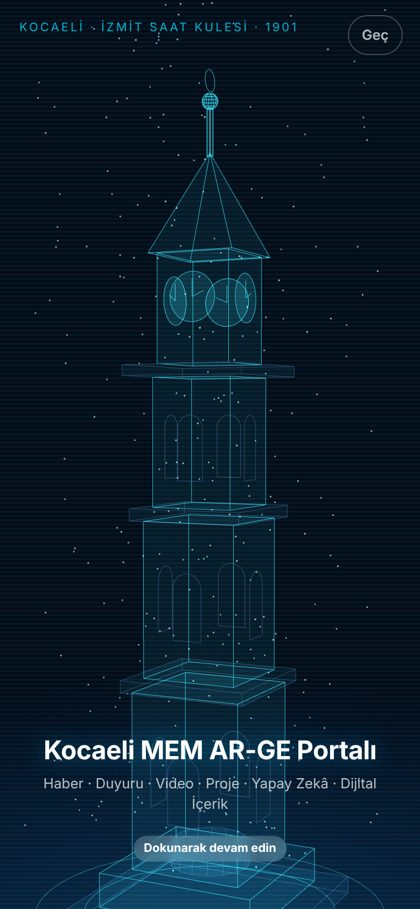
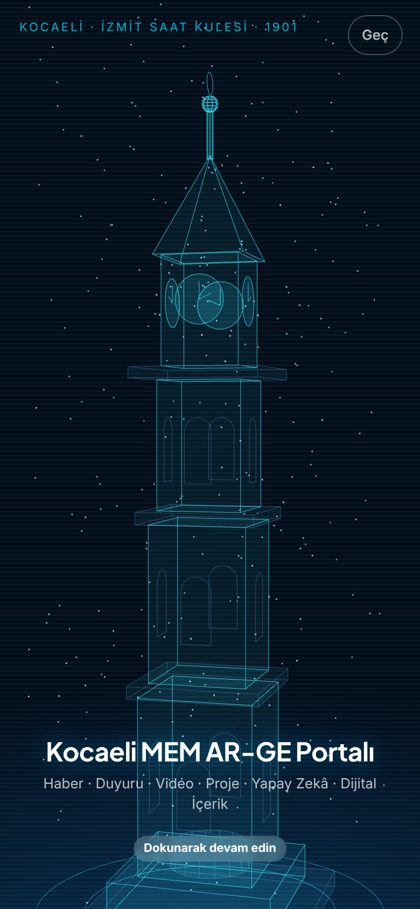
Kocaeli AR-GE Portalı 1.2: görsel yenileme
- Yeni tasarım dili: Plus Jakarta Sans başlıklar, modül başına degrade kutular,
  buzlu cam üst çubuk, yüzen sekme çubuğu, sayfa geçiş ve beğeni animasyonları
- Ana sayfa: saate göre selamlama, "bugün" özet şeridi, gerçek haber görselli manşet
- Giriş ekranı kurumsal başlık bandı; masaüstünde sunum sahnesi (telefon çerçevesi + QR)
- Haber kartı yerleşimi düzeltildi; yüklenemeyen görseller sessizce gizlenir

Claude-Session: https://claude.ai/code/session_01W6VhR75ND3NcnzXQomE63t

Changed region(s): [[0.0929, 0.0616, 0.8976, 1.0], [0.4952, 0.6469, 0.5262, 0.6777]]

diff --git a/kocaeli-arge/css/app.css b/kocaeli-arge/css/app.css
@@ -366,3 +366,140 @@ hr.sep { border: 0; border-top: 1px solid var(--border); margin: 14px 0; }
 .tts { margin-top: 6px; }
 :root[data-font="buyuk"] #device { zoom: 1.12; }
 :root[data-font="kucuk"] #device { zoom: 0.92; }
+
+/* ═══════════════════════ Görsel yenileme v1.2 ═══════════════════════ */
+:root {
+  --font-display: 'Plus Jakarta Sans', 'Inter', system-ui, sans-serif;
+  --g-red: linear-gradient(135deg, #FF4D5E 0%, #E72737 55%, #B81B29 100%);
+  --g-navy: linear-gradient(135deg, #1E4D8C 0%, #0F2A4A 100%);
+  --g-teal: linear-gradient(135deg, #2BB68B 0%, #146B52 100%);
+  --g-gold: linear-gradient(135deg, #F7C948 0%, #D98E04 100%);
+  --g-violet: linear-gradient(135deg, #8B5CF6 0%, #5B21B6 100%);
+  --g-sky: linear-gradient(135deg, #38BDF8 0%, #0369A1 100%);
+  --g-rose: linear-gradient(135deg, #FB7185 0%, #BE123C 100%);
+  --g-slate: linear-gradient(135deg, #64748B 0%, #334155 100%);
+  --radius: 20px; --radius-s: 12px;
+  --shadow: 0 1px 2px rgba(16,24,40,.04), 0 12px 32px -16px rgba(15,42,74,.22);
+}
+h1, h2, h3, .topbar .title, .topbar .brand .t1, .banner h3, .stat b, #login h1, .page-title { font-family: var(--font-display); letter-spacing: -.02em; }
+body { background: #07101E; }
+#device { background: var(--bg); }
+.card { border-radius: var(--radius); border-color: color-mix(in srgb, var(--border) 70%, transparent); }
+.card.tap { transition: transform .15s cubic-bezier(.2,.8,.2,1), box-shadow .15s; }
+.card.tap:active { transform: scale(.97); }
+.btn { border-radius: 14px; transition: transform .12s, filter .12s; }
+.btn:active { transform: scale(.96); filter: brightness(.95); }
+.btn.primary { background: var(--g-red); border: 0; box-shadow: 0 8px 20px -8px rgba(231,39,55,.6); }
+.btn.navy { background: var(--g-navy); border: 0; }
+
+/* Üst çubuk: buzlu cam */
+.topbar { background: color-mix(in srgb, var(--surface) 82%, transparent); backdrop-filter: saturate(160%) blur(14px); -webkit-backdrop-filter: saturate(160%) blur(14px); border-bottom: 1px solid color-mix(in srgb, var(--border) 60%, transparent); height: 60px; }
+.topbar .brand .logo { background: var(--g-red); box-shadow: 0 6px 16px -6px rgba(231,39,55,.6); width: 38px; height: 38px; border-radius: 12px; }
+.topbar .brand .t1 { font-size: 15px; }
+.topbar .brand .t2 { font-size: 11px; letter-spacing: .3px; text-transform: uppercase; color: var(--muted); font-weight: 600; }
+.icon-btn .dot { box-shadow: 0 0 0 2px var(--surface); }
+
+/* Sayfa geçişi */
+main#view { animation: pageIn .28s cubic-bezier(.2,.8,.2,1); }
+@keyframes pageIn { from { opacity: 0; transform: translateY(8px); } to { opacity: 1; transform: none; } }
+@media (prefers-reduced-motion: reduce) { main#view, .card.tap, .btn { animation: none; transition: none; } }
+
+/* Alt sekme çubuğu: yüzen hap */
+.tabbar { left: 12px; right: 12px; bottom: calc(10px + var(--safe-b)); height: 66px; padding: 6px; border-radius: 24px; border: 1px solid color-mix(in srgb, var(--border) 70%, transparent); background: color-mix(in srgb, var(--surface) 88%, transparent); backdrop-filter: saturate(160%) blur(16px); -webkit-backdrop-filter: saturate(160%) blur(16px); box-shadow: 0 16px 40px -16px rgba(7,16,30,.45); }
+@media (min-width: 720px) { .tabbar { position: sticky; left: auto; right: auto; bottom: 10px; margin: 0 12px; } }
+.tabbar a { border-radius: 18px; transition: background .2s, color .2s; gap: 2px; }
+.tabbar a.on { background: var(--meb-soft); color: var(--meb); }
+.tabbar a svg { transition: transform .2s; }
+.tabbar a.on svg { transform: translateY(-1px) scale(1.08); }
+main#view { padding-bottom: calc(var(--tab-h) + var(--safe-b) + 36px); }
+.chat-input { bottom: calc(var(--tab-h) + var(--safe-b) + 14px); }
+.toast { bottom: calc(var(--tab-h) + var(--safe-b) + 28px); }
+
+/* Ana sayfa: selamlama + bugün şeridi + manşet */
+.greet { display: flex; justify-content: space-between; align-items: flex-end; margin: 4px 0 14px; }
+.greet .hi { font-size: 13px; color: var(--text-2); font-weight: 600; }
+.greet .name { font-family: var(--font-display); font-size: 24px; font-weight: 800; letter-spacing: -.02em; line-height: 1.1; }
+.greet .date { text-align: right; font-size: 12px; color: var(--text-2); font-weight: 600; }
+.greet .date b { display: block; font-family: var(--font-display); font-size: 20px; color: var(--text); line-height: 1; }
+.today { display: grid; grid-template-columns: repeat(3, 1fr); gap: 10px; margin-bottom: 18px; }
+.today a { display: flex; flex-direction: column; gap: 4px; padding: 12px 12px 10px; border-radius: 16px; color: #fff; position: relative; overflow: hidden; min-height: 78px; box-shadow: var(--shadow); }
+.today a::after { content: ''; position: absolute; right: -14px; bottom: -18px; width: 64px; height: 64px; border-radius: 50%; background: rgba(255,255,255,.14); }
+.today a b { font-family: var(--font-display); font-size: 24px; line-height: 1; font-weight: 800; }
+.today a span { font-size: 11.5px; font-weight: 600; opacity: .92; }
+.today a svg { width: 18px; height: 18px; opacity: .9; }
+.manset { display: block; position: relative; border-radius: 22px; overflow: hidden; min-height: 230px; background: var(--g-navy); color: #fff; box-shadow: 0 24px 48px -24px rgba(15,42,74,.6); }
+.manset img { position: absolute; inset: 0; width: 100%; height: 100%; object-fit: cover; }
+.manset::after { content: ''; position: absolute; inset: 0; background: linear-gradient(180deg, rgba(7,16,30,.05) 20%, rgba(7,16,30,.85) 100%); }
+.manset .tx { position: absolute; left: 0; right: 0; bottom: 0; padding: 16px; z-index: 1; }
+.manset .tx h3 { margin: 6px 0 4px; font-size: 19px; line-height: 1.2; font-weight: 800; text-shadow: 0 2px 10px rgba(0,0,0,.4); display: -webkit-box; -webkit-line-clamp: 2; -webkit-box-orient: vertical; overflow: hidden; }
+.manset .tx p { margin: 0; font-size: 12.5px; opacity: .85; display: -webkit-box; -webkit-line-clamp: 2; -webkit-box-orient: vertical; overflow: hidden; }
+.manset .chip.light { backdrop-filter: blur(6px); }
+.banner { border-radius: 22px; }
+.banner::after { background: radial-gradient(500px 220px at 90% -10%, rgba(255,255,255,.22), transparent 60%), linear-gradient(0deg, rgba(0,0,0,.18), transparent 50%); }
+
+/* Hızlı erişim: modül başına degrade kutu */
+.quick { gap: 12px; }
+.quick a { border: 0; background: var(--surface); box-shadow: var(--shadow); border-radius: 18px; padding: 12px 4px 11px; gap: 7px; font-size: 11.5px; }
+.quick a .ic { width: 44px; height: 44px; border-radius: 14px; color: #fff; background: var(--g-slate); box-shadow: 0 8px 16px -8px rgba(7,16,30,.5); }
+.quick a .ic svg { width: 22px; height: 22px; }
+.quick a[data-c="red"] .ic { background: var(--g-red); } .quick a[data-c="navy"] .ic { background: var(--g-navy); } .quick a[data-c="teal"] .ic { background: var(--g-teal); }
+.quick a[data-c="gold"] .ic { background: var(--g-gold); } .quick a[data-c="violet"] .ic { background: var(--g-violet); } .quick a[data-c="sky"] .ic { background: var(--g-sky); } .quick a[data-c="rose"] .ic { background: var(--g-rose); }
+.row .ic { border-radius: 13px; }
+.row[data-c="red"] .ic { background: var(--g-red); color: #fff; } .row[data-c="navy"] .ic { background: var(--g-navy); color: #fff; } .row[data-c="teal"] .ic { background: var(--g-teal); color: #fff; }
+.row[data-c="gold"] .ic { background: var(--g-gold); color: #fff; } .row[data-c="violet"] .ic { background: var(--g-violet); color: #fff; } .row[data-c="sky"] .ic { background: var(--g-sky); color: #fff; } .row[data-c="rose"] .ic { background: var(--g-rose); color: #fff; } .row[data-c="slate"] .ic { background: var(--g-slate); color: #fff; }
+
+/* Haber kartları */
+.news .img { border-radius: 12px; width: 104px; height: 84px; }
+.news { grid-template-columns: 104px 1fr; }
+.news.big .img { height: 190px; }
+.news.big .body { padding: 12px 14px 14px; }
+.news .meta .chip { padding: 2px 8px; }
+.section-head h2 { font-size: 17px; }
+.section-head a { display: inline-flex; align-items: center; gap: 2px; }
+
+/* Sosyal: kalp animasyonu */
+.social button.like.on svg { animation: pop .35s cubic-bezier(.2,.8,.2,1); }
+@keyframes pop { 0% { transform: scale(.6); } 60% { transform: scale(1.3); } 100% { transform: scale(1); } }
+.story .ring { box-shadow: 0 6px 14px -8px rgba(7,16,30,.5); }
+
+/* Giriş ekranı */
+#login { background: radial-gradient(900px 500px at 50% -10%, #1E4D8C 0%, var(--bg) 55%); }
+#login .hero { padding-top: 36px; }
+#login .hero .logo { width: 84px; height: 84px; border-radius: 26px; background: var(--g-red); font-size: 17px; box-shadow: 0 20px 40px -14px rgba(231,39,55,.7); }
+#login .kurum { font-size: 11.5px; letter-spacing: 1.5px; text-transform: uppercase; color: #fff; opacity: .85; font-weight: 700; margin-bottom: 14px; }
+#login h1 { color: #fff; font-size: 24px; }
+#login .hero p { color: rgba(255,255,255,.78); }
+:root[data-theme="dark"] #login h1, :root[data-theme="dark"] #login .hero p { color: var(--text); }
+@media (prefers-color-scheme: dark) { :root:not([data-theme="light"]) #login h1 { color: var(--text); } }
+.login-btn { border-radius: 16px; }
+.login-btn .lg { border-radius: 12px; }
+
+/* Masaüstü sunum sahnesi */
+#stage { display: none; }
+@media (min-width: 1000px) {
+  body { display: grid; grid-template-columns: 430px minmax(360px, 520px); justify-content: center; align-items: center; gap: 56px; padding: 24px 32px; background: radial-gradient(1200px 700px at 30% -10%, #1E4D8C 0%, #07101E 60%); }
+  #device { margin: 0; }
+  #stage { display: block; color: #fff; }
+  #stage .k { font-size: 12px; letter-spacing: 2px; text-transform: uppercase; color: rgba(0,220,255,.85); font-weight: 700; margin-bottom: 14px; }
+  #stage h1 { font-size: 40px; line-height: 1.05; margin: 0 0 14px; font-weight: 800; }
+  #stage p { font-size: 16px; color: rgba(255,255,255,.75); margin: 0 0 22px; max-width: 460px; }
+  #stage .feat { display: flex; flex-wrap: wrap; gap: 8px; margin-bottom: 26px; }
+  #stage .feat span { padding: 7px 12px; border-radius: 999px; background: rgba(255,255,255,.1); border: 1px solid rgba(255,255,255,.14); font-size: 12.5px; font-weight: 600; }
+  #stage .qrbox { display: flex; gap: 16px; align-items: center; background: #fff; color: #16213A; border-radius: 20px; padding: 14px 16px; width: max-content; box-shadow: 0 30px 60px -24px rgba(0,0,0,.7); }
+  #stage .qrbox b { display: block; font-size: 14px; } #stage .qrbox small { color: #5A6479; font-size: 12px; }
+  #stage .qrbox img { width: 112px; height: 112px; border-radius: 10px; }
+  #login { position: absolute; }
+  #login .wrap { min-height: 100%; }
+}
+/* v1.2 düzeltmeleri */
+#login { background: var(--bg); }
+#login .hero { background: var(--g-navy); color: #fff; margin: -24px -22px 20px; padding: calc(36px + env(safe-area-inset-top, 0px)) 22px 30px; border-radius: 0 0 34px 34px; box-shadow: 0 24px 48px -28px rgba(15,42,74,.8); position: relative; overflow: hidden; }
+#login .hero::after { content: ''; position: absolute; right: -60px; top: -60px; width: 220px; height: 220px; border-radius: 50%; background: radial-gradient(circle, rgba(255,255,255,.18), transparent 70%); }
+#login h1, :root[data-theme="dark"] #login h1 { color: #fff; }
+#login .hero p, :root[data-theme="dark"] #login .hero p { color: rgba(255,255,255,.82); }
+#login .hero .logo { background: #fff; color: var(--meb); box-shadow: 0 20px 40px -14px rgba(0,0,0,.5); }
+.section-head a { white-space: nowrap; flex: none; margin-left: 12px; }
+img.broken { visibility: hidden; }
+.manset img.broken { display: none; }
+a.card.news { display: grid; }
+a.card.news.big { display: block; }

diff --git a/kocaeli-arge/js/views/home.js b/kocaeli-arge/js/views/home.js
@@ -1,5 +1,5 @@
 // Ana sayfa, haberler, duyurular, bildirimler, favoriler, arama
-import { icons, h, raw, el, esc, fmtDate, fmtRel, kalanGun, toast, skeletons, empty, share } from '../ui.js';
+import { icons, h, raw, el, esc, fmtDate, fmtRel, kalanGun, ymd, toast, skeletons, empty, share } from '../ui.js';
 import { store, bildirim, social } from '../backend.js';
 import { feeds } from '../feeds.js';
 import { newsCard, videoCard, socialBar, commentsSection } from '../components.js';
@@ -33,28 +33,40 @@ export async function home(ctx) {
   const c = store.content;
   const gunun = (c.duyurular || []).find(d => d.id === c.gununDuyurusu) || (c.duyurular || [])[0];
   const u = store.user;
+  const now = new Date(), hr = now.getHours();
+  const selam = hr < 6 ? 'Hayırlı geceler' : hr < 12 ? 'Hayırlı sabahlar' : hr < 18 ? 'Hayırlı günler' : 'Hayırlı akşamlar';
+  const bugun = (c.etkinlikler || []).filter(e => e.tarih.slice(0, 10) === ymd(now)).length;
+  const yakin = (c.duyurular || []).filter(d => d.sonTarih && kalanGun(d.sonTarih) >= 0 && kalanGun(d.sonTarih) <= 14).length;
+  const okunmamis = bildirim.unread();
+  const adSoyad = u?.ad || 'Değerli Öğretmenimiz';
   ctx.root.innerHTML = `
-    <section class="section">
-      <div style="display:flex;justify-content:space-between;align-items:center;margin-bottom:10px">
-        <div><div style="font-size:12.5px;color:var(--text-2)">Hoş geldiniz${u ? ',' : ''}</div><div style="font-size:19px;font-weight:800;letter-spacing:-.3px">${esc(u?.ad || 'Değerli Öğretmenimiz')}</div></div>
-        <span class="chip navy">${fmtDate(new Date())}</span>
-      </div>
-      <div class="banner-wrap" id="banners">${(c.bannerlar || []).map(b => h`<a class="banner" href="${b.rota}" style="background:${b.renk}"><span class="chip light">Duyuru</span><h3>${b.baslik}</h3><p>${b.alt}</p></a>`).join('')}</div>
-      <div class="dots">${(c.bannerlar || []).map((_, i) => `<i class="${i === 0 ? 'on' : ''}"></i>`).join('')}</div>
-    </section>
-    ${gunun ? h`<section class="section"><div class="section-head"><h2>Günün duyurusu</h2><a href="#/duyurular">Tümü</a></div>
-      <a class="card ann tap ${gunun.onemli ? 'onemli' : ''} ${gunun.acil ? 'acil' : ''}" href="#/duyurular/${gunun.id}"><div class="tags">${gunun.resmi ? raw('<span class="chip navy">Resmî</span>') : ''}${gunun.onemli ? raw('<span class="chip meb">Önemli</span>') : ''}${gunun.acil ? raw('<span class="chip meb">Acil</span>') : ''}</div><h3>${gunun.baslik}</h3><p>${gunun.ozet}</p>${gunun.sonTarih ? raw(deadlineHtml(gunun.sonTarih)) : ''}</a></section>` : ''}
+    <div class="greet"><div><div class="hi">${selam},</div><div class="name">${esc(adSoyad.split(' ').slice(0, 2).join(' '))}</div></div>
+      <div class="date"><b>${now.getDate()}</b>${fmtDate(now).split(' ').slice(1).join(' ')}<br>${['Pazar', 'Pazartesi', 'Salı', 'Çarşamba', 'Perşembe', 'Cuma', 'Cumartesi'][now.getDay()]}</div></div>
+    <div class="today">
+      <a href="#/takvim" style="background:var(--g-teal)">${icons.calendar}<b>${bugun}</b><span>Bugünkü etkinlik</span></a>
+      <a href="#/duyurular" style="background:var(--g-gold)">${icons.clock}<b>${yakin}</b><span>Yaklaşan son tarih</span></a>
+      <a href="#/bildirimler" style="background:var(--g-navy)">${icons.bell}<b>${okunmamis}</b><span>Yeni bildirim</span></a>
+    </div>
     <div id="live-slot"></div>
+    <section class="section"><div class="section-head"><h2>Manşet</h2><a href="#/haberler">Tüm haberler ${icons.chevron}</a></div><div id="manset"><div class="manset skeleton" style="box-shadow:none"></div></div></section>
     <section class="section"><div class="section-head"><h2>Hızlı erişim</h2></div>
-      <div class="quick">${(c.hizliErisim || []).map(q => h`<a href="${q.rota}"><span class="ic">${raw(icons[q.ikon] || icons.grid)}</span>${q.ad}</a>`).join('')}</div></section>
-    <section class="section"><div class="section-head"><h2>Son haberler</h2><a href="#/haberler">Tümü</a></div><div class="card-list" id="home-news">${skeletons(3)}</div></section>
-    <section class="section"><div class="section-head"><h2>Kocaeli MEM TV</h2><a href="#/tv">Tümü</a></div><div class="card-list" id="home-video"><div class="card video"><div class="thumb skeleton"></div></div></div></section>
-    <section class="section"><div class="section-head"><h2>Yaklaşan etkinlikler</h2><a href="#/takvim">Takvim</a></div><div class="card">${upcoming(c).map(e => h`<a class="event tap" href="#/takvim?g=${e.tarih.slice(0, 10)}"><div class="when"><b>${new Date(e.tarih).getDate()}</b><span>${fmtDate(e.tarih).split(' ')[1].slice(0, 3)}</span><small>${e.tarih.slice(11, 16)}</small></div><div><h3>${e.baslik}</h3><p>${e.yer} · ${e.tur}</p></div></a>`).join('') || empty('Yaklaşan etkinlik yok', 'calendar')}</div></section>`;
-  // banner dots
+      <div class="quick">${(c.hizliErisim || []).map(q => h`<a href="${q.rota}" data-c="${q.renk || 'slate'}"><span class="ic">${raw(icons[q.ikon] || icons.grid)}</span>${q.ad}</a>`).join('')}</div></section>
+    <section class="section"><div class="section-head"><h2>Öne çıkanlar</h2></div>
+      <div class="banner-wrap" id="banners">${(c.bannerlar || []).map(b => h`<a class="banner" href="${b.rota}" style="background:${b.renk}"><span class="chip light">Duyuru</span><h3>${b.baslik}</h3><p>${b.alt}</p></a>`).join('')}</div>
+      <div class="dots">${(c.bannerlar || []).map((_, i) => `<i class="${i === 0 ? 'on' : ''}"></i>`).join('')}</div></section>
+    ${gunun ? h`<section class="section"><div class="section-head"><h2>Günün duyurusu</h2><a href="#/duyurular">Tümü ${raw(icons.chevron)}</a></div>
+      <a class="card ann tap ${gunun.onemli ? 'onemli' : ''} ${gunun.acil ? 'acil' : ''}" href="#/duyurular/${gunun.id}"><div class="tags">${gunun.resmi ? raw('<span class="chip navy">Resmî</span>') : ''}${gunun.onemli ? raw('<span class="chip meb">Önemli</span>') : ''}${gunun.acil ? raw('<span class="chip meb">Acil</span>') : ''}</div><h3>${gunun.baslik}</h3><p>${gunun.ozet}</p>${gunun.sonTarih ? raw(deadlineHtml(gunun.sonTarih)) : ''}</a></section>` : ''}
+    <section class="section"><div class="section-head"><h2>Son haberler</h2><a href="#/haberler">Tümü ${icons.chevron}</a></div><div class="card-list" id="home-news">${skeletons(3)}</div></section>
+    <section class="section"><div class="section-head"><h2>Kocaeli MEM TV</h2><a href="#/tv">Tümü ${icons.chevron}</a></div><div class="card-list" id="home-video"><div class="card video"><div class="thumb skeleton"></div></div></div></section>
+    <section class="section"><div class="section-head"><h2>Yaklaşan etkinlikler</h2><a href="#/takvim">Takvim ${icons.chevron}</a></div><div class="card">${upcoming(c).map(e => h`<a class="event tap" href="#/takvim?g=${e.tarih.slice(0, 10)}"><div class="when"><b>${new Date(e.tarih).getDate()}</b><span>${fmtDate(e.tarih).split(' ')[1].slice(0, 3)}</span><small>${e.tarih.slice(11, 16)}</small></div><div><h3>${e.baslik}</h3><p>${e.yer} · ${e.tur}</p></div></a>`).join('') || empty('Yaklaşan etkinlik yok', 'calendar')}</div></section>`;
   const bw = ctx.root.querySelector('#banners'), dots = ctx.root.querySelectorAll('.dots i');
   bw?.addEventListener('scroll', () => { const i = Math.round(bw.scrollLeft / (bw.firstElementChild?.offsetWidth + 12 || 1)); dots.forEach((d, k) => d.classList.toggle('on', k === i)); }, { passive: true });
   let auto = setInterval(() => { if (!document.contains(bw)) return clearInterval(auto); const w = (bw.firstElementChild?.offsetWidth || 0) + 12; const next = (Math.round(bw.scrollLeft / w) + 1) % (c.bannerlar?.length || 1); bw.scrollTo({ left: next * w, behavior: 'smooth' }); }, 5000);
-  allNews(c).then(items => { const n = ctx.root.querySelector('#home-news'); if (n) n.innerHTML = items.length ? items.slice(0, 1).map(i => newsCard(i, { big: true })).join('') + items.slice(1, 5).map(i => newsCard(i)).join('') : empty('Haber yüklenemedi'); });
+  allNews(c).then(items => {
+    const m = ctx.root.querySelector('#manset'); const hero = items.find(i => i.image) || items[0];
+    if (m) m.innerHTML = hero ? h`<a class="manset tap" href="#/haberler/${encodeURIComponent(hero.id)}">${hero.image ? raw(`<img src="${esc(hero.image)}" alt="" referrerpolicy="no-referrer">`) : ''}<div class="tx"><span class="chip light">${hero.kaynak}${hero.date ? ' · ' + fmtRel(hero.date) : ''}</span><h3>${hero.title}</h3><p>${hero.summary || ''}</p></div></a>` : '';
+    const n = ctx.root.querySelector('#home-news'); if (n) n.innerHTML = items.length ? items.filter(i => i !== hero).slice(0, 5).map(i => newsCard(i)).join('') : empty('Haber yüklenemedi');
+  });
   feeds.live(YT_CHANNELS.map(k => k.id)).then(d => { const l = (d.items || []).find(x => x.live); const slot = ctx.root.querySelector('#live-slot'); if (!l || !slot) return; const ch = YT_CHANNELS.find(k => k.id === l.channelId); slot.innerHTML = `<a class="card live-card tap" href="#/tv/${esc(l.videoId)}" style="margin-bottom:22px"><span class="live-badge"><i></i>CANLI</span><b>${esc(ch?.ad || '')}</b><span>${esc(l.title || 'Canlı yayın sürüyor')}</span>${icons.chevron}</a>`; }).catch(() => {});
   feeds.channel(YT_CHANNELS[0].id).then(d => { const n = ctx.root.querySelector('#home-video'); if (n) n.innerHTML = (d.items || []).slice(0, 2).map(videoCard).join(''); }).catch(() => { const n = ctx.root.querySelector('#home-video'); if (n) n.innerHTML = empty('Video yüklenemedi', 'play'); });
 }

diff --git a/kocaeli-arge/js/views/misc.js b/kocaeli-arge/js/views/misc.js
@@ -203,13 +203,13 @@ export async function hakkinda(ctx) {
 export async function menu(ctx) {
   ctx.title('Tüm Modüller');
   const items = [
-    ['Akış', 'feed', '#/akis', 'Paylaşımlar, haber ve videolar tek akışta'], ['Ara', 'search', '#/ara', 'Tüm içerikte arama'],
-    ['Haberler', 'news', '#/haberler', 'Kocaeli MEM, AR-GE ve MEB haberleri'], ['Duyurular', 'megaphone', '#/duyurular', 'Resmî ve acil duyurular, son tarihler'], ['Bildirimler', 'bell', '#/bildirimler', 'Bildirim merkezi'],
-    ['Kocaeli MEM TV', 'play', '#/tv', 'YouTube, canlı yayın, oynatma listeleri'], ['AR-GE Çalışmaları', 'flask', '#/arge', 'Projeler, başvuru, sonuç raporları'], ['eTwinning Merkezi', 'globe', '#/etwinning', 'Çağrılar, örnekler, kılavuzlar'],
-    ['TÜBİTAK Merkezi', 'atom', '#/tubitak', '4004 · 4005 · 4006 · 2204'], ['Öğretmen Akademileri', 'graduation', '#/akademiler', 'Takvim, videolar, başvuru'], ['Dijital Kütüphane', 'book', '#/kutuphane', 'PDF, kılavuz, MEB yayınları, e-kitap'],
-    ['Etkinlik Takvimi', 'calendar', '#/takvim', 'Günlük, haftalık, aylık'], ['İlçe AR-GE Birimleri', 'building', '#/ilceler', '12 ilçe, iletişim ve faaliyetler'], ['Anket Sistemi', 'chart', '#/anketler', 'Online anket ve sonuçlar'],
-    ['Yapay Zekâ Asistanı', 'sparkles', '#/asistan', 'Proje, yazı ve etkinlik desteği'], ['Doküman Merkezi', 'file', '#/dokumanlar', 'Formlar ve dilekçe örnekleri'], ['Kurumsal İletişim', 'phone', '#/iletisim', 'Telefon, e-posta, harita'],
-    ['Hesabım', 'user', '#/hesap', 'Profil, favoriler, bildirim, tema'],
+    ['Akış', 'feed', '#/akis', 'Paylaşımlar, haber ve videolar tek akışta', 'rose'], ['Ara', 'search', '#/ara', 'Tüm içerikte arama', 'slate'],
+    ['Haberler', 'news', '#/haberler', 'Kocaeli MEM, AR-GE ve MEB haberleri', 'red'], ['Duyurular', 'megaphone', '#/duyurular', 'Resmî ve acil duyurular, son tarihler', 'navy'], ['Bildirimler', 'bell', '#/bildirimler', 'Bildirim merkezi', 'gold'],
+    ['Kocaeli MEM TV', 'play', '#/tv', 'YouTube, canlı yayın, oynatma listeleri', 'red'], ['AR-GE Çalışmaları', 'flask', '#/arge', 'Projeler, başvuru, sonuç raporları', 'teal'], ['eTwinning Merkezi', 'globe', '#/etwinning', 'Çağrılar, örnekler, kılavuzlar', 'sky'],
+    ['TÜBİTAK Merkezi', 'atom', '#/tubitak', '4004 · 4005 · 4006 · 2204', 'violet'], ['Öğretmen Akademileri', 'graduation', '#/akademiler', 'Takvim, videolar, başvuru', 'navy'], ['Dijital Kütüphane', 'book', '#/kutuphane', 'PDF, kılavuz, MEB yayınları, e-kitap', 'gold'],
+    ['Etkinlik Takvimi', 'calendar', '#/takvim', 'Günlük, haftalık, aylık', 'teal'], ['İlçe AR-GE Birimleri', 'building', '#/ilceler', '12 ilçe, iletişim ve faaliyetler', 'sky'], ['Anket Sistemi', 'chart', '#/anketler', 'Online anket ve sonuçlar', 'violet'],
+    ['Yapay Zekâ Asistanı', 'sparkles', '#/asistan', 'Proje, yazı ve etkinlik desteği', 'rose'], ['Doküman Merkezi', 'file', '#/dokumanlar', 'Formlar ve dilekçe örnekleri', 'slate'], ['Kurumsal İletişim', 'phone', '#/iletisim', 'Telefon, e-posta, harita', 'navy'],
+    ['Hesabım', 'user', '#/hesap', 'Profil, favoriler, bildirim, tema', 'slate'],
   ];
-  ctx.root.innerHTML = `<div class="card">${items.map(([t, i, href, s]) => listRow({ icon: i, title: t, sub: s, href })).join('')}${store.isAdmin ? listRow({ icon: 'settings', title: 'Yönetici Paneli', sub: 'İçerik ve bildirim yönetimi', href: '/kocaeli-arge/yonetim/' }) : ''}</div>`;
+  ctx.root.innerHTML = `<div class="card">${items.map(([t, i, href, s, c]) => listRow({ icon: i, title: t, sub: s, href, c })).join('')}${store.isAdmin ? listRow({ icon: 'settings', title: 'Yönetici Paneli', sub: 'İçerik ve bildirim yönetimi', href: '/kocaeli-arge/yonetim/', c: 'red' }) : ''}</div>`;
 }

diff --git a/kocaeli-arge/index.html b/kocaeli-arge/index.html
@@ -15,7 +15,7 @@
 <link rel="icon" type="image/png" sizes="192x192" href="/kocaeli-arge/assets/icon-192.png">
 <link rel="apple-touch-icon" href="/kocaeli-arge/assets/apple-touch-icon.png">
 <link rel="preconnect" href="https://fonts.googleapis.com"><link rel="preconnect" href="https://fonts.gstatic.com" crossorigin>
-<link href="https://fonts.googleapis.com/css2?family=Inter:wght@400;500;600;700;800;900&display=swap" rel="stylesheet">
+<link href="https://fonts.googleapis.com/css2?family=Inter:wght@400;500;600;700;800;900&family=Plus+Jakarta+Sans:wght@600;700;800&display=swap" rel="stylesheet">
 <link rel="stylesheet" href="/kocaeli-arge/css/app.css">
 <script>try{var t=localStorage.getItem('arge.theme');if(t==='dark'||t==='light')document.documentElement.dataset.theme=t;var f=localStorage.getItem('arge.font');if(f&&f!=='normal')document.documentElement.dataset.font=f;}catch(e){}</script>
 </head>
@@ -27,6 +27,15 @@
   <div class="intro-text"><h1>Kocaeli MEM AR-GE Portalı</h1><p>Haber · Duyuru · Video · Proje · Yapay Zekâ · Dijital İçerik</p><span class="chip light">Dokunarak devam edin</span></div>
 </div>
 <div id="device"><div class="screen"><div class="empty" style="padding-top:40vh">Yükleniyor…</div></div></div>
+<aside id="stage" aria-label="Tanıtım">
+  <div class="k">Kocaeli İl Millî Eğitim Müdürlüğü · AR-GE Birimi</div>
+  <h1>Haber, duyuru, video ve projeler<br>tek uygulamada.</h1>
+  <p>Öğretmenlerimiz için Kocaeli MEM, MEB ve EBA kaynaklarını, Öğretmen Akademileri'ni, TÜBİTAK ve eTwinning çağrılarını, etkinlik takvimini ve yapay zekâ asistanını bir araya getiren mobil portal.</p>
+  <div class="feat"><span>Anlık haber</span><span>Kocaeli MEM TV</span><span>Canlı yayın</span><span>Sosyal akış</span><span>Push bildirim</span><span>Etkinlik takvimi</span><span>Yapay zekâ asistanı</span><span>Çevrim dışı çalışır</span></div>
+  <div class="qrbox"><div id="stage-qr"></div><div><b>Telefonunuzla okutun</b><small>raufenc.com/kocaeli-arge/<br>"Ana ekrana ekle" ile uygulama olarak kurulur.</small></div></div>
+</aside>
+<script src="https://cdnjs.cloudflare.com/ajax/libs/qrcodejs/1.0.0/qrcode.min.js" defer></script>
+<script>window.addEventListener('load',function(){var q=document.getElementById('stage-qr');if(q&&window.QRCode&&q.offsetParent!==null){try{new QRCode(q,{text:location.origin+'/kocaeli-arge/',width:112,height:112,correctLevel:QRCode.CorrectLevel.M});}catch(e){}}});</script>
 <script type="module" src="/kocaeli-arge/js/app.js"></script>
 <noscript><p style="padding:20px;color:#fff">Bu uygulama için JavaScript gereklidir.</p></noscript>
 </body>

diff --git a/kocaeli-arge/js/app.js b/kocaeli-arge/js/app.js
@@ -20,6 +20,8 @@ const TABS = [['#/', 'Ana Sayfa', 'home'], ['#/akis', 'Akış', 'feed'], ['#/tv'
 const $ = (s) => document.querySelector(s);
 let installPrompt = null;
 window.addEventListener('beforeinstallprompt', (e) => { e.preventDefault(); installPrompt = e; });
+// Yüklenemeyen görseller (kaynak sitesi erişilemezse) boş kutu olarak kalsın, kırık simge görünmesin
+document.addEventListener('error', (e) => { if (e.target?.tagName === 'IMG') e.target.classList.add('broken'); }, true);
 
 function applyTheme(t) {
   if (t === 'light' || t === 'dark') document.documentElement.dataset.theme = t; else delete document.documentElement.dataset.theme;
@@ -86,7 +88,7 @@ function versionCheck() {
 // ── Giriş ekranı ──
 function showLogin() {
   document.getElementById('login')?.remove();
-  const l = el(`<div id="login"><div class="wrap"><div class="hero"><div class="logo">AR-GE</div><h1>Kocaeli MEM AR-GE Portalı</h1><p>Haber, duyuru, video, proje ve dijital içerikler tek merkezde.</p></div>
+  const l = el(`<div id="login"><div class="wrap"><div class="hero"><div class="kurum">T.C. Kocaeli Valiliği · İl Millî Eğitim Müdürlüğü</div><div class="logo">AR-GE</div><h1>Kocaeli MEM AR-GE Portalı</h1><p>Haber, duyuru, video, proje ve dijital içerikler tek merkezde.</p></div>
     ${isLive ? '' : '<div class="notice demo">Tanıtım sürümü: Firebase bağlanmadığı için demo hesapla giriş yapılır; veriler bu cihazda saklanır.</div>'}
     <button class="login-btn soon" id="l-edevlet"><span class="lg edevlet">e-D</span><span>e-Devlet ile giriş<small>Kamu kimlik doğrulama</small></span><span class="chip amber soon-tag">Protokol sonrası</span></button>
     <button class="login-btn soon" id="l-mebbis"><span class="lg mebbis">MEB</span><span>MEBBİS ile giriş<small>Öğretmen kurumsal hesabı</small></span><span class="chip amber soon-tag">Protokol sonrası</span></button>

diff --git a/kocaeli-arge/sunum/index.html b/kocaeli-arge/sunum/index.html
@@ -28,7 +28,7 @@
 </head>
 <body>
 <div class="hero"><div class="wrap">
-  <div><span class="tag">TANITIM SÜRÜMÜ · v1.1</span><h1>Kocaeli MEM AR-GE Portalı<br>Mobil Uygulaması</h1>
+  <div><span class="tag">TANITIM SÜRÜMÜ · v1.2</span><h1>Kocaeli MEM AR-GE Portalı<br>Mobil Uygulaması</h1>
     <p>Haber, duyuru, video, proje, yapay zekâ desteği ve dijital içerikleri tek merkezden sunan kapsamlı eğitim platformu.</p>
     <a class="btn" href="/kocaeli-arge/">Uygulamayı aç</a> &nbsp; <a class="btn alt" href="/kocaeli-arge/yonetim/">Yönetici paneli</a></div>
   <div class="qr"><div id="qr"></div><b>Telefonunuzla okutun</b><small id="url">raufenc.com/kocaeli-arge/</small><small style="margin-top:6px">Açılan sayfada "Ana ekrana ekle" ile uygulama gibi kurulur.</small></div>
@@ -41,7 +41,7 @@
     <figure><img src="/kocaeli-arge/assets/sunum/akis.jpg" alt="Akış"><figcaption>Sosyal akış</figcaption></figure>
     <figure><img src="/kocaeli-arge/assets/sunum/tv.jpg" alt="MEM TV"><figcaption>Kocaeli MEM TV</figcaption></figure>
     <figure><img src="/kocaeli-arge/assets/sunum/takvim.jpg" alt="Takvim"><figcaption>Etkinlik takvimi</figcaption></figure>
-    <figure><img src="/kocaeli-arge/assets/sunum/yonetim.jpg" alt="Yönetici paneli"><figcaption>Yönetici paneli</figcaption></figure>
+    <figure><img src="/kocaeli-arge/assets/sunum/giris-ekrani.jpg" alt="Giriş ekranı"><figcaption>Giriş ekranı</figcaption></figure>
   </div></div></section>
 
 <section style="padding-top:0"><div class="wrap"><h2>Modüller</h2><p class="lead">İhtiyaç listesindeki 20 başlığın tamamı uygulamada yer alır.</p>

diff --git a/kocaeli-arge/js/components.js b/kocaeli-arge/js/components.js
@@ -72,4 +72,4 @@ export function ytEmbed(videoId, { autoplay = 1 } = {}) {
 export function ytLive(channelId) {
   return `<div class="player"><iframe src="https://www.youtube-nocookie.com/embed/live_stream?channel=${esc(channelId)}&autoplay=0&playsinline=1&hl=tr" title="Canlı yayın" allow="autoplay; encrypted-media; picture-in-picture; fullscreen" allowfullscreen loading="lazy"></iframe></div>`;
 }
-export const listRow = ({ icon = 'file', title, sub, href, right = '' }) => h`<a class="row tap" href="${href || '#'}"><span class="ic">${raw(icons[icon] || icons.file)}</span><span class="tx"><b>${title}</b>${sub ? raw(`<span>${esc(sub)}</span>`) : ''}</span>${raw(right)}<span class="arrow">${raw(icons.chevron)}</span></a>`;
+export const listRow = ({ icon = 'file', title, sub, href, right = '', c = '' }) => h`<a class="row tap" href="${href || '#'}" data-c="${c}"><span class="ic">${raw(icons[icon] || icons.file)}</span><span class="tx"><b>${title}</b>${sub ? raw(`<span>${esc(sub)}</span>`) : ''}</span>${raw(right)}<span class="arrow">${raw(icons.chevron)}</span></a>`;

diff --git a/kocaeli-arge/sw.js b/kocaeli-arge/sw.js
@@ -1,5 +1,5 @@
 /* Kocaeli MEM AR-GE Portalı — service worker: çevrim dışı kabuk + FCM arka plan bildirimleri */
-const VERSION = 'arge-v1.1.0';
+const VERSION = 'arge-v1.2.0';
 const BASE = '/kocaeli-arge/';
 const SHELL = [BASE, BASE + 'index.html', BASE + 'css/app.css', BASE + 'manifest.webmanifest', BASE + 'data/seed.json',
   ...['app', 'backend', 'components', 'config', 'feeds', 'intro', 'router', 'ui', 'views/home', 'views/tv', 'views/arge', 'views/misc', 'views/akis'].map(f => `${BASE}js/${f}.js`)];

diff --git a/kocaeli-arge/js/config.js b/kocaeli-arge/js/config.js
@@ -11,7 +11,7 @@
 //   7. ADMIN_EMAILS listesine yönetici Google hesaplarını yaz (Firestore'da admins/{email} de oluşturulur)
 //  Config girilmezse uygulama DEMO modunda çalışır (tarayıcı belleği + örnek içerik).
 // ============================================================
-export const APP_VERSION = '1.1.0';
+export const APP_VERSION = '1.2.0';
 export const APP_NAME = 'Kocaeli MEM AR-GE Portalı';
 export const BASE_PATH = '/kocaeli-arge/';
 
